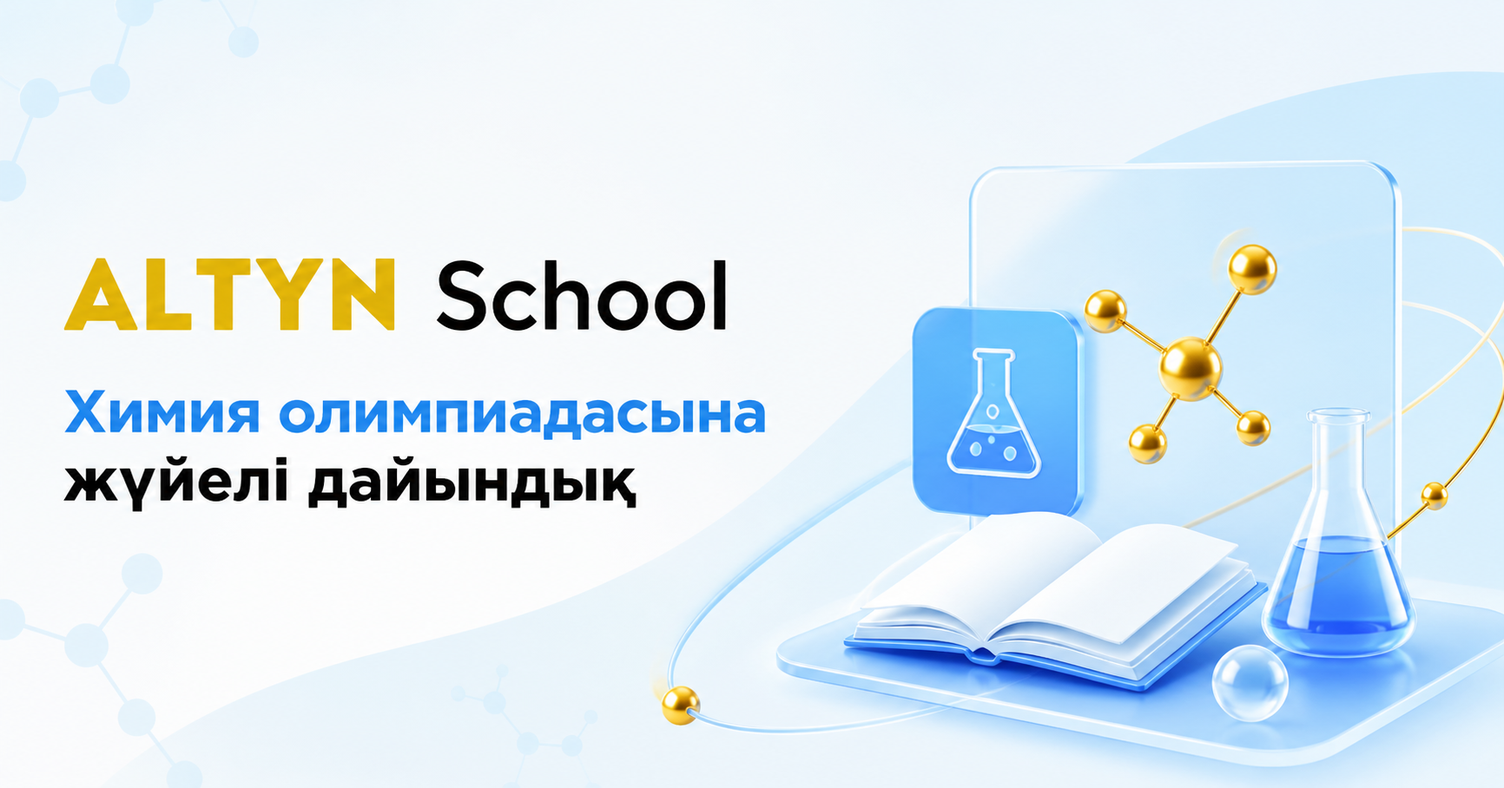
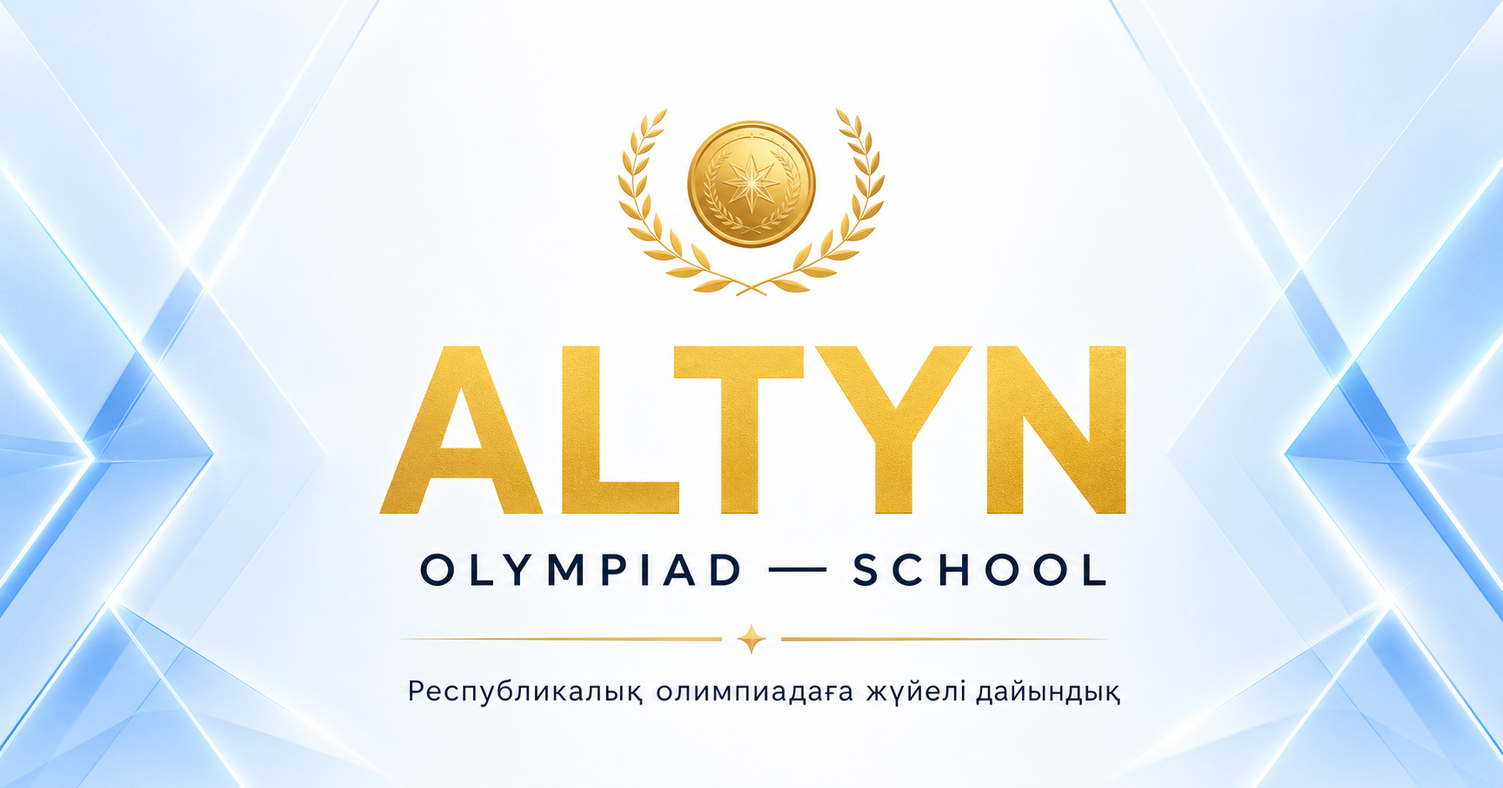
Update ALTYN as an olympiad school brand

diff --git a/app/components/LMSPreview.tsx b/app/components/LMSPreview.tsx
@@ -2,4 +2,4 @@
 import { motion } from "framer-motion";
 import { BookOpenCheck, CheckCircle2, Clock3, FileQuestion, Play, Trophy } from "lucide-react";
 import { SectionHeading } from "./shared";
-export default function LMSPreview(){return <section id="platform" className="section-space bg-white"><div className="site-container"><SectionHeading eyebrow="ALTYN LMS" title="Бәрі бір" accent="платформада" description="Теория, практика, олимпиадалық сынақ және ментордың талдауы бір терезеде."/><div className="mb-8 flex flex-wrap justify-center gap-2">{["Теория","Олимпиадалық есептер","Сынақ","Рейтинг"].map((x,i)=><span key={x} className={`rounded-full border px-5 py-2 text-xs font-bold ${i===0?"border-blue-600 bg-blue-600 text-white":"border-blue-200 text-blue-600"}`}>{x}</span>)}</div><motion.div initial={{opacity:0,y:40}} whileInView={{opacity:1,y:0}} viewport={{once:true}} className="platform-stage"><div className="platform-screen"><div className="flex items-center justify-between border-b border-slate-100 px-6 py-4"><div><small className="text-[9px] font-black tracking-[.14em] text-blue-600">ALTYN OLYMPIAD LAB</small><h3 className="mt-1 font-extrabold text-slate-900">Бейорганикалық химия · Практика 4</h3></div><span className="rounded-lg bg-blue-50 px-3 py-2 text-[9px] font-bold text-blue-600">11-сынып</span></div><div className="grid min-h-[430px] lg:grid-cols-[220px_1fr_210px]"><aside className="hidden border-r border-slate-100 bg-slate-50 p-4 lg:block"><p className="text-[9px] font-black text-slate-400">МОДУЛЬДЕР</p>{["Атом құрылысы","Химиялық байланыс","Термодинамика","Ерітінділер","Органикалық химия"].map((x,i)=><div key={x} className={`mt-3 rounded-xl p-3 text-[10px] font-bold ${i===2?"bg-blue-600 text-white":"bg-white text-slate-500"}`}>{i<2?"✓":"0"+(i+1)} · {x}</div>)}</aside><main className="p-5 sm:p-8"><div className="rounded-2xl border border-blue-100 bg-blue-50/60 p-5"><small className="font-black text-blue-600">18-ЕСЕП</small><p className="mt-3 text-sm font-bold leading-6 text-slate-800">Белгісіз металдың оксидіндегі оттектің массалық үлесін анықтап, реакция теңдеуін құрастыр.</p></div><div className="relative mt-5 grid min-h-[210px] place-items-center rounded-2xl border border-dashed border-slate-200 bg-slate-50"><div className="atom-visual"><span>Au</span></div><button className="absolute grid size-14 place-items-center rounded-full bg-blue-600 text-white shadow-xl"><Play size={20} fill="currentColor"/></button></div><div className="mt-4 grid grid-cols-4 gap-2">{["A · 23%","B · 31%","C · 38%","D · 46%"].map(x=><span key={x} className="rounded-xl border border-slate-200 bg-white p-3 text-center text-[10px] font-bold text-slate-600">{x}</span>)}</div></main><aside className="hidden border-l border-slate-100 p-4 lg:block"><p className="text-[9px] font-black text-slate-400">БҮГІНГІ ПРОГРЕСС</p><strong className="mt-2 block text-3xl text-slate-900">78%</strong><div className="my-4 h-2 rounded-full bg-slate-100"><div className="h-full w-[78%] rounded-full bg-blue-600"/></div>{[[CheckCircle2,"Теория аяқталды"],[FileQuestion,"12 есеп шешілді"],[Trophy,"Рейтинг: #7"]].map(([Icon,t])=><div key={String(t)} className="mt-3 flex items-center gap-2 rounded-xl bg-slate-50 p-3 text-[9px] font-bold text-slate-600"><Icon size={15} className="text-blue-600"/>{t}</div>)}</aside></div></div><div className="platform-base"/><div className="platform-float right-[-1rem] top-[22%]"><BookOpenCheck size={18}/> Бүкіл теория бір жерде</div><div className="platform-float right-[-1rem] top-[42%]"><Clock3 size={18}/> Кез келген уақытта дайындал</div></motion.div></div></section>}
+export default function LMSPreview(){return <section id="platform" className="section-space bg-white"><div className="site-container"><SectionHeading eyebrow="ALTYN LMS" title="Бәрі бір" accent="платформада" description="Теория, практика, олимпиадалық сынақ және ментордың талдауы бір терезеде."/><div className="mb-8 flex flex-wrap justify-center gap-2">{["Теория","Олимпиадалық есептер","Сынақ","Рейтинг"].map((x,i)=><span key={x} className={`rounded-full border px-5 py-2 text-xs font-bold ${i===0?"border-blue-600 bg-blue-600 text-white":"border-blue-200 text-blue-600"}`}>{x}</span>)}</div><motion.div initial={{opacity:0,y:40}} whileInView={{opacity:1,y:0}} viewport={{once:true}} className="platform-stage"><div className="platform-screen"><div className="flex items-center justify-between border-b border-slate-100 px-6 py-4"><div><small className="text-[9px] font-black tracking-[.14em] text-blue-600">ALTYN OLYMPIAD LAB</small><h3 className="mt-1 font-extrabold text-slate-900">Олимпиадалық дайындық · Практика 4</h3></div><span className="rounded-lg bg-blue-50 px-3 py-2 text-[9px] font-bold text-blue-600">11-сынып</span></div><div className="grid min-h-[430px] lg:grid-cols-[220px_1fr_210px]"><aside className="hidden border-r border-slate-100 bg-slate-50 p-4 lg:block"><p className="text-[9px] font-black text-slate-400">МОДУЛЬДЕР</p>{["Диагностика","Пәндік теория","Есептер стратегиясы","Олимпиадалық тур","Қателермен жұмыс"].map((x,i)=><div key={x} className={`mt-3 rounded-xl p-3 text-[10px] font-bold ${i===2?"bg-blue-600 text-white":"bg-white text-slate-500"}`}>{i<2?"✓":"0"+(i+1)} · {x}</div>)}</aside><main className="p-5 sm:p-8"><div className="rounded-2xl border border-blue-100 bg-blue-50/60 p-5"><small className="font-black text-blue-600">18-ЕСЕП</small><p className="mt-3 text-sm font-bold leading-6 text-slate-800">Берілген шартты талдап, шешу стратегиясын анықта. Әр қадамды негіздеп, толық жауап құрастыр.</p></div><div className="relative mt-5 grid min-h-[210px] place-items-center rounded-2xl border border-dashed border-slate-200 bg-slate-50"><div className="atom-visual"><span>01</span></div><button className="absolute grid size-14 place-items-center rounded-full bg-blue-600 text-white shadow-xl"><Play size={20} fill="currentColor"/></button></div><div className="mt-4 grid grid-cols-4 gap-2">{["A · 1-қадам","B · 2-қадам","C · 3-қадам","D · Жауап"].map(x=><span key={x} className="rounded-xl border border-slate-200 bg-white p-3 text-center text-[10px] font-bold text-slate-600">{x}</span>)}</div></main><aside className="hidden border-l border-slate-100 p-4 lg:block"><p className="text-[9px] font-black text-slate-400">БҮГІНГІ ПРОГРЕСС</p><strong className="mt-2 block text-3xl text-slate-900">78%</strong><div className="my-4 h-2 rounded-full bg-slate-100"><div className="h-full w-[78%] rounded-full bg-blue-600"/></div>{[[CheckCircle2,"Теория аяқталды"],[FileQuestion,"12 есеп шешілді"],[Trophy,"Рейтинг: #7"]].map(([Icon,t])=><div key={String(t)} className="mt-3 flex items-center gap-2 rounded-xl bg-slate-50 p-3 text-[9px] font-bold text-slate-600"><Icon size={15} className="text-blue-600"/>{t}</div>)}</aside></div></div><div className="platform-base"/><div className="platform-float right-[-1rem] top-[22%]"><BookOpenCheck size={18}/> Бүкіл теория бір жерде</div><div className="platform-float right-[-1rem] top-[42%]"><Clock3 size={18}/> Кез келген уақытта дайындал</div></motion.div></div></section>}

diff --git a/app/components/Hero.tsx b/app/components/Hero.tsx
@@ -1,5 +1,5 @@
 "use client";
 import { motion } from "framer-motion";
-import { ArrowRight, Award, FlaskConical, Play, Trophy } from "lucide-react";
+import { ArrowRight, Award, Medal, Play, Trophy } from "lucide-react";
 import { ease } from "./shared";
-export default function Hero(){return <section className="relative overflow-hidden bg-[#f3f5f8] pb-20 pt-28 sm:pb-24 sm:pt-32"><div className="absolute left-1/2 top-24 h-[450px] w-[900px] -translate-x-1/2 rounded-full bg-blue-200/25 blur-3xl"/><div className="site-container relative"><motion.div initial={{opacity:0,y:28}} animate={{opacity:1,y:0}} transition={{duration:.75,ease}} className="relative overflow-hidden rounded-[2.3rem] border border-white bg-white shadow-[0_30px_90px_rgba(15,23,42,.11)]"><img src="/altyn-students-v2.png" alt="ALTYN School оқушылары" className="h-[330px] w-full object-cover object-center sm:h-[430px] lg:h-[500px]"/><div className="pointer-events-none absolute inset-x-0 bottom-0 h-32 bg-gradient-to-t from-white via-white/60 to-transparent"/><motion.div animate={{y:[0,-8,0]}} transition={{duration:4,repeat:Infinity}} className="hero-chip left-[4%] top-[58%]"><span className="grid size-9 place-items-center rounded-xl bg-blue-50 text-blue-600"><Trophy size={18}/></span><div><b>#1 олимпиадалық мектеп</b><small>Химия бойынша</small></div></motion.div><motion.div animate={{y:[0,8,0]}} transition={{duration:4.4,repeat:Infinity}} className="hero-chip right-[4%] top-[53%]"><span className="grid size-9 place-items-center rounded-xl bg-amber-50 text-amber-500"><Award size={18}/></span><div><b>100+ жүлдегер</b><small>3 жыл ішінде</small></div></motion.div><div className="absolute left-1/2 top-5 hidden -translate-x-1/2 rounded-full border border-white/60 bg-white/85 px-5 py-2 text-[10px] font-black tracking-[.14em] text-blue-700 shadow-lg backdrop-blur sm:block">ALTYN · CHEMISTRY OLYMPIAD</div></motion.div><motion.div initial={{opacity:0,y:32}} animate={{opacity:1,y:0}} transition={{duration:.8,delay:.15,ease}} className="mx-auto mt-10 max-w-5xl text-center"><div className="mx-auto inline-flex items-center gap-2 rounded-full border border-blue-200 bg-blue-50 px-4 py-2 text-[10px] font-black tracking-[.12em] text-blue-700"><FlaskConical size={14}/> РЕСПУБЛИКАЛЫҚ ОЛИМПИАДАҒА ДАЙЫНДЫҚ</div><h1 className="mt-6 text-[2.7rem] font-extrabold leading-[1.02] tracking-[-.055em] text-slate-900 sm:text-6xl lg:text-[4.6rem]">4 айда олимпиадалық деңгейіңді <span className="gradient-text">+40%-ға арттыр</span></h1><p className="mx-auto mt-6 max-w-2xl text-base leading-7 text-slate-600 sm:text-lg">Химиядан мектепішілік кезеңнен Республикалық олимпиада тұғырына дейін апаратын жүйелі бағдарлама.</p><div className="mt-8 flex flex-col justify-center gap-3 sm:flex-row"><a href="#contact" className="primary-button">Тегін диагностика <ArrowRight size={18}/></a><a href="#results" className="secondary-button"><Play size={15} fill="currentColor"/> Оқушылар нәтижесі</a></div></motion.div></div></section>}
+export default function Hero(){return <section className="relative overflow-hidden bg-[#f3f5f8] pb-20 pt-28 sm:pb-24 sm:pt-32"><div className="absolute left-1/2 top-24 h-[450px] w-[900px] -translate-x-1/2 rounded-full bg-blue-200/25 blur-3xl"/><div className="site-container relative"><motion.div initial={{opacity:0,y:28}} animate={{opacity:1,y:0}} transition={{duration:.75,ease}} className="relative overflow-hidden rounded-[2.3rem] border border-white bg-white shadow-[0_30px_90px_rgba(15,23,42,.11)]"><img src="/altyn-students-v2.png" alt="ALTYN School олимпиада жүлдегерлері" className="h-[330px] w-full object-cover object-center sm:h-[430px] lg:h-[500px]"/><div className="pointer-events-none absolute inset-x-0 bottom-0 h-32 bg-gradient-to-t from-white via-white/60 to-transparent"/><motion.div animate={{y:[0,-8,0]}} transition={{duration:4,repeat:Infinity}} className="hero-chip left-[4%] top-[58%]"><span className="grid size-9 place-items-center rounded-xl bg-blue-50 text-blue-600"><Trophy size={18}/></span><div><b>#1 олимпиадалық мектеп</b><small>Пәндік олимпиадалар</small></div></motion.div><motion.div animate={{y:[0,8,0]}} transition={{duration:4.4,repeat:Infinity}} className="hero-chip right-[4%] top-[53%]"><span className="grid size-9 place-items-center rounded-xl bg-amber-50 text-amber-500"><Award size={18}/></span><div><b>100+ жүлдегер</b><small>3 жыл ішінде</small></div></motion.div><div className="absolute left-1/2 top-5 hidden -translate-x-1/2 rounded-full border border-white/60 bg-white/85 px-5 py-2 text-[10px] font-black tracking-[.14em] text-blue-700 shadow-lg backdrop-blur sm:block">ALTYN · OLYMPIAD SCHOOL</div></motion.div><motion.div initial={{opacity:0,y:32}} animate={{opacity:1,y:0}} transition={{duration:.8,delay:.15,ease}} className="mx-auto mt-10 max-w-5xl text-center"><div className="mx-auto inline-flex items-center gap-2 rounded-full border border-blue-200 bg-blue-50 px-4 py-2 text-[10px] font-black tracking-[.12em] text-blue-700"><Medal size={14}/> РЕСПУБЛИКАЛЫҚ ОЛИМПИАДАҒА ДАЙЫНДЫҚ</div><h1 className="mt-6 text-[2.7rem] font-extrabold leading-[1.02] tracking-[-.055em] text-slate-900 sm:text-6xl lg:text-[4.6rem]">4 айда олимпиадалық деңгейіңді <span className="gradient-text">+40%-ға арттыр</span></h1><p className="mx-auto mt-6 max-w-2xl text-base leading-7 text-slate-600 sm:text-lg">Мектепішілік кезеңнен Республикалық пән олимпиадасының тұғырына дейін апаратын жүйелі бағдарлама.</p><div className="mt-8 flex flex-col justify-center gap-3 sm:flex-row"><a href="#contact" className="primary-button">Тегін диагностика <ArrowRight size={18}/></a><a href="#results" className="secondary-button"><Play size={15} fill="currentColor"/> Оқушылар нәтижесі</a></div></motion.div></div></section>}

diff --git a/app/components/Pricing.tsx b/app/components/Pricing.tsx
@@ -10,5 +10,5 @@ const plans = [
 ];
 
 export default function Pricing() {
-  return <section id="pricing" className="section-space bg-gradient-to-b from-blue-50/60 to-slate-50"><div className="site-container"><SectionHeading eyebrow="ТАРИФТЕР" title="Республикалық кезеңге" accent="өзіңе сай форматпен" description="Екі тариф те олимпиадалық химияға бағытталған. Айырмашылығы — ментордың жеке қолдау деңгейінде." /><div className="mx-auto grid max-w-4xl gap-7 md:grid-cols-2">{plans.map((plan, i) => <FadeIn key={plan.name} delay={i * .1}><motion.article whileHover={{ y: -8 }} className={`relative h-full rounded-2xl bg-white p-8 transition-all duration-300 ${plan.featured ? "border-2 border-blue-500 shadow-[0_25px_70px_rgba(37,99,235,.20)]" : "border border-slate-200/80 shadow-sm hover:shadow-xl"}`}>{plan.featured && <div className="absolute -top-4 left-1/2 flex -translate-x-1/2 items-center gap-1.5 rounded-full bg-blue-600 px-4 py-2 text-[10px] font-black tracking-[.12em] text-white shadow-lg"><Flame size={13} /> ТОП ТАҢДАУ</div>}<div className="flex items-center justify-between"><span className={`grid size-12 place-items-center rounded-2xl ${plan.featured ? "bg-blue-600 text-white" : "bg-blue-50 text-blue-600"}`}><Sparkles size={21} /></span><span className="text-[9px] font-black tracking-[.14em] text-blue-600">{plan.label}</span></div><h3 className="mt-6 text-3xl font-extrabold text-slate-900">{plan.name}</h3><p className="mt-2 text-sm text-slate-500">{plan.desc}</p><div className="mt-7 border-b border-slate-100 pb-7"><strong className="text-4xl font-extrabold tracking-tight text-slate-900">{plan.price}</strong><span className="ml-2 text-sm font-semibold text-slate-400">KZT / ай</span></div><ul className="my-7 space-y-4">{plan.features.map(x => <li key={x} className="flex items-start gap-3 text-sm text-slate-600"><span className="mt-0.5 grid size-5 shrink-0 place-items-center rounded-full bg-blue-50 text-blue-600"><Check size={12} strokeWidth={3} /></span>{x}</li>)}</ul><a href="#contact" className={plan.featured ? "primary-button w-full" : "secondary-button w-full"}>{plan.name} таңдау <span>→</span></a></motion.article></FadeIn>)}</div><p className="mt-8 text-center text-xs text-slate-500">Қай тариф лайық екенін білмесең, тегін диагностикадан өт — біз көмектесеміз.</p></div></section>;
+  return <section id="pricing" className="section-space bg-gradient-to-b from-blue-50/60 to-slate-50"><div className="site-container"><SectionHeading eyebrow="ТАРИФТЕР" title="Республикалық кезеңге" accent="өзіңе сай форматпен" description="Екі тариф те пән олимпиадаларына жүйелі дайындыққа бағытталған. Айырмашылығы — ментордың жеке қолдау деңгейінде." /><div className="mx-auto grid max-w-4xl gap-7 md:grid-cols-2">{plans.map((plan, i) => <FadeIn key={plan.name} delay={i * .1}><motion.article whileHover={{ y: -8 }} className={`relative h-full rounded-2xl bg-white p-8 transition-all duration-300 ${plan.featured ? "border-2 border-blue-500 shadow-[0_25px_70px_rgba(37,99,235,.20)]" : "border border-slate-200/80 shadow-sm hover:shadow-xl"}`}>{plan.featured && <div className="absolute -top-4 left-1/2 flex -translate-x-1/2 items-center gap-1.5 rounded-full bg-blue-600 px-4 py-2 text-[10px] font-black tracking-[.12em] text-white shadow-lg"><Flame size={13} /> ТОП ТАҢДАУ</div>}<div className="flex items-center justify-between"><span className={`grid size-12 place-items-center rounded-2xl ${plan.featured ? "bg-blue-600 text-white" : "bg-blue-50 text-blue-600"}`}><Sparkles size={21} /></span><span className="text-[9px] font-black tracking-[.14em] text-blue-600">{plan.label}</span></div><h3 className="mt-6 text-3xl font-extrabold text-slate-900">{plan.name}</h3><p className="mt-2 text-sm text-slate-500">{plan.desc}</p><div className="mt-7 border-b border-slate-100 pb-7"><strong className="text-4xl font-extrabold tracking-tight text-slate-900">{plan.price}</strong><span className="ml-2 text-sm font-semibold text-slate-400">KZT / ай</span></div><ul className="my-7 space-y-4">{plan.features.map(x => <li key={x} className="flex items-start gap-3 text-sm text-slate-600"><span className="mt-0.5 grid size-5 shrink-0 place-items-center rounded-full bg-blue-50 text-blue-600"><Check size={12} strokeWidth={3} /></span>{x}</li>)}</ul><a href="#contact" className={plan.featured ? "primary-button w-full" : "secondary-button w-full"}>{plan.name} таңдау <span>→</span></a></motion.article></FadeIn>)}</div><p className="mt-8 text-center text-xs text-slate-500">Қай тариф лайық екенін білмесең, тегін диагностикадан өт — біз көмектесеміз.</p></div></section>;
 }

diff --git a/app/components/Footer.tsx b/app/components/Footer.tsx
@@ -5,5 +5,5 @@ import { ArrowUp, Camera, CirclePlay, Send } from "lucide-react";
 import { Logo } from "./shared";
 
 export default function Footer() {
-  return <motion.footer initial={{ opacity: 0 }} whileInView={{ opacity: 1 }} viewport={{ once: true }} className="bg-slate-950 pb-7 pt-16 text-white"><div className="site-container grid gap-10 border-b border-slate-800 pb-12 md:grid-cols-2 lg:grid-cols-[1.5fr_.7fr_.8fr_1fr]"><div><Logo light /><p className="mt-6 max-w-xs text-sm leading-6 text-slate-500">Химия олимпиадаларына жүйелі дайындық беретін Қазақстандағы заманауи онлайн мектеп.</p><div className="mt-6 flex gap-2">{[Camera, Send, CirclePlay].map((Icon, i) => <a key={i} href="#" aria-label="Әлеуметтік желі" className="grid size-9 place-items-center rounded-xl border border-slate-800 text-slate-400 transition hover:border-blue-500 hover:text-blue-400"><Icon size={16} /></a>)}</div></div><div><h3 className="text-xs font-black uppercase tracking-wider text-white">Навигация</h3>{[["Платформа", "#platform"], ["Артықшылықтар", "#features"], ["Нәтижелер", "#results"], ["Тарифтер", "#pricing"]].map(([x,h]) => <a key={x} href={h} className="mt-4 block text-xs text-slate-500 hover:text-blue-400">{x}</a>)}</div><div><h3 className="text-xs font-black uppercase tracking-wider text-white">Байланыс</h3><a href="#contact" className="mt-4 block text-xs text-slate-500 hover:text-blue-400">Кеңес алу</a><a href="#faq" className="mt-4 block text-xs text-slate-500 hover:text-blue-400">FAQ</a><p className="mt-4 text-xs text-slate-500">Қазақстан · Онлайн</p></div><div className="rounded-2xl border border-blue-400/20 bg-blue-400/10 p-5"><p className="text-sm font-bold">Бірінші қадамға дайынсың ба?</p><a href="#contact" className="mt-5 flex items-center justify-center rounded-xl bg-blue-600 px-4 py-3 text-xs font-black hover:bg-blue-500">Тегін бастау →</a></div></div><div className="site-container flex flex-col gap-4 pt-7 text-[10px] text-slate-600 sm:flex-row sm:items-center sm:justify-between"><span>© 2026 ALTYN School. Барлық құқық қорғалған.</span><a href="#top" className="inline-flex items-center gap-2 text-slate-400 hover:text-blue-400">Жоғарыға <ArrowUp size={13} /></a></div></motion.footer>;
+  return <motion.footer initial={{ opacity: 0 }} whileInView={{ opacity: 1 }} viewport={{ once: true }} className="bg-slate-950 pb-7 pt-16 text-white"><div className="site-container grid gap-10 border-b border-slate-800 pb-12 md:grid-cols-2 lg:grid-cols-[1.5fr_.7fr_.8fr_1fr]"><div><Logo light /><p className="mt-6 max-w-xs text-sm leading-6 text-slate-500">Пән олимпиадаларына жүйелі дайындық беретін Қазақстандағы заманауи онлайн мектеп.</p><div className="mt-6 flex gap-2">{[Camera, Send, CirclePlay].map((Icon, i) => <a key={i} href="#" aria-label="Әлеуметтік желі" className="grid size-9 place-items-center rounded-xl border border-slate-800 text-slate-400 transition hover:border-blue-500 hover:text-blue-400"><Icon size={16} /></a>)}</div></div><div><h3 className="text-xs font-black uppercase tracking-wider text-white">Навигация</h3>{[["Платформа", "#platform"], ["Артықшылықтар", "#features"], ["Нәтижелер", "#results"], ["Тарифтер", "#pricing"]].map(([x,h]) => <a key={x} href={h} className="mt-4 block text-xs text-slate-500 hover:text-blue-400">{x}</a>)}</div><div><h3 className="text-xs font-black uppercase tracking-wider text-white">Байланыс</h3><a href="#contact" className="mt-4 block text-xs text-slate-500 hover:text-blue-400">Кеңес алу</a><a href="#faq" className="mt-4 block text-xs text-slate-500 hover:text-blue-400">FAQ</a><p className="mt-4 text-xs text-slate-500">Қазақстан · Онлайн</p></div><div className="rounded-2xl border border-blue-400/20 bg-blue-400/10 p-5"><p className="text-sm font-bold">Бірінші қадамға дайынсың ба?</p><a href="#contact" className="mt-5 flex items-center justify-center rounded-xl bg-blue-600 px-4 py-3 text-xs font-black hover:bg-blue-500">Тегін бастау →</a></div></div><div className="site-container flex flex-col gap-4 pt-7 text-[10px] text-slate-600 sm:flex-row sm:items-center sm:justify-between"><span>© 2026 ALTYN School. Барлық құқық қорғалған.</span><a href="#top" className="inline-flex items-center gap-2 text-slate-400 hover:text-blue-400">Жоғарыға <ArrowUp size={13} /></a></div></motion.footer>;
 }

diff --git a/app/components/FAQ.tsx b/app/components/FAQ.tsx
@@ -3,5 +3,5 @@ import { AnimatePresence, motion } from "framer-motion";
 import { Plus } from "lucide-react";
 import { useState } from "react";
 import { SectionHeading } from "./shared";
-const questions=[["Курс кімдерге арналған?","8–11 сынып оқушыларына, химиядан облыстық және Республикалық олимпиада кезеңдеріне жүйелі дайындалғысы келетіндерге арналған."],["Сабақтар қалай өтеді?","Платформада видео сабақ, қысқа конспект, олимпиадалық есептер және апталық сынақ болады. Ментор оқу жоспарын бақылап, кері байланыс береді."],["Нөлден бастауға бола ма?","Иә. Диагностикадан кейін деңгей анықталып, базадан Республикалық олимпиада деңгейіне дейін жеке маршрут құрылады."],["Аптасына қанша уақыт керек?","Орташа 6–8 сағат жеткілікті. Жоспар оқушының мектебі мен басқа сабақтарына бейімделеді."],["Курсқа қалай қосыламын?","Өтінім қалдыр. Кеңесші байланысып, диагностикаға жазады және лайық тарифті таңдауға көмектеседі."]];
+const questions=[["Курс кімдерге арналған?","8–11 сынып оқушыларына, пән олимпиадаларының облыстық және Республикалық олимпиада кезеңдеріне жүйелі дайындалғысы келетіндерге арналған."],["Сабақтар қалай өтеді?","Платформада видео сабақ, қысқа конспект, олимпиадалық есептер және апталық сынақ болады. Ментор оқу жоспарын бақылап, кері байланыс береді."],["Нөлден бастауға бола ма?","Иә. Диагностикадан кейін деңгей анықталып, базадан Республикалық олимпиада деңгейіне дейін жеке маршрут құрылады."],["Аптасына қанша уақыт керек?","Орташа 6–8 сағат жеткілікті. Жоспар оқушының мектебі мен басқа сабақтарына бейімделеді."],["Курсқа қалай қосыламын?","Өтінім қалдыр. Кеңесші байланысып, диагностикаға жазады және лайық тарифті таңдауға көмектеседі."]];
 export default function FAQ(){const[open,setOpen]=useState(0);return <section id="faq" className="section-space bg-white"><div className="site-container grid gap-14 lg:grid-cols-[.75fr_1.25fr]"><SectionHeading centered={false} eyebrow="FAQ" title="Жиі қойылатын" accent="сұрақтар" description="Республикалық олимпиадаға дайындық бағдарламасы туралы негізгі жауаптар."/><motion.div initial={{opacity:0,x:35}} whileInView={{opacity:1,x:0}} viewport={{once:true}} className="space-y-3">{questions.map(([q,a],i)=><article key={q} className={`rounded-2xl border bg-white transition-all duration-300 ${open===i?"border-blue-200 shadow-lg shadow-blue-100/60":"border-slate-200/80 shadow-sm"}`}><button onClick={()=>setOpen(open===i?-1:i)} className="flex w-full items-center gap-4 p-5 text-left" aria-expanded={open===i}><span className="text-[10px] font-black text-blue-500">{String(i+1).padStart(2,"0")}</span><b className="flex-1 text-sm text-slate-900 sm:text-base">{q}</b><span className={`grid size-8 place-items-center rounded-full transition-all ${open===i?"rotate-45 bg-blue-600 text-white":"bg-blue-50 text-blue-600"}`}><Plus size={17}/></span></button><AnimatePresence initial={false}>{open===i&&<motion.div initial={{height:0,opacity:0}} animate={{height:"auto",opacity:1}} exit={{height:0,opacity:0}} className="overflow-hidden"><p className="px-14 pb-6 text-sm leading-6 text-slate-500">{a}</p></motion.div>}</AnimatePresence></article>)}</motion.div></div></section>}

diff --git a/app/components/Features.tsx b/app/components/Features.tsx
@@ -1,10 +1,10 @@
 "use client";
 
 import { motion } from "framer-motion";
-import { Activity, BrainCircuit, Clock3, FlaskConical, Medal, MessagesSquare } from "lucide-react";
+import { Activity, BrainCircuit, Clock3, ClipboardCheck, Medal, MessagesSquare } from "lucide-react";
 import { FadeIn, SectionHeading } from "./shared";
 
-const features = [[FlaskConical, "Олимпиадалық сынақ", "Апта сайын нақты олимпиада форматындағы сынақ пен толық талдау."], [Activity, "Жеке прогресс", "Әлсіз тақырыптарды көріп, өсу динамикасын нақты метрикамен бақыла."], [MessagesSquare, "Жеке ментор", "Жоспар, мотивация және күрделі есептер бойынша тұрақты қолдау."], [BrainCircuit, "Терең пәндік база", "Химияны формула емес, өзара байланысты жүйе ретінде түсіну."], [Medal, "Жеңімпаздар ортасы", "Мақсаты биік оқушылармен бірге дамып, жоғары стандарт қалыптастыру."], [Clock3, "24/7 қолжетімділік", "Сабақ пен материалдар кез келген уақытта барлық құрылғыда ашық."]];
+const features = [[ClipboardCheck, "Олимпиадалық сынақ", "Апта сайын нақты олимпиада форматындағы сынақ пен толық талдау."], [Activity, "Жеке прогресс", "Әлсіз тақырыптарды көріп, өсу динамикасын нақты метрикамен бақыла."], [MessagesSquare, "Жеке ментор", "Жоспар, мотивация және күрделі есептер бойынша тұрақты қолдау."], [BrainCircuit, "Терең пәндік база", "Пәнді жаттамай, идеялар мен заңдылықтарды өзара байланысты жүйе ретінде түсіну."], [Medal, "Жеңімпаздар ортасы", "Мақсаты биік оқушылармен бірге дамып, жоғары стандарт қалыптастыру."], [Clock3, "24/7 қолжетімділік", "Сабақ пен материалдар кез келген уақытта барлық құрылғыда ашық."]];
 
 export default function Features() {
   return <section id="features" className="section-space bg-gradient-to-b from-slate-50 to-blue-50/40"><div className="site-container"><SectionHeading eyebrow="НЕЛІКТЕН ALTYN?" title="Нәтижеге жеткізетін" accent="6 артықшылық" description="Білім, бақылау және қолдау бір жүйеге біріктірілгенде тұрақты нәтиже пайда болады." /><div className="grid gap-5 md:grid-cols-2 lg:grid-cols-3">{features.map(([Icon, title, text], i) => <FadeIn key={String(title)} delay={i * .06}><motion.article whileHover={{ y: -7 }} className="premium-card group relative h-full overflow-hidden p-7"><span className="absolute right-5 top-4 text-4xl font-black text-slate-100">0{i + 1}</span><span className="icon-box transition-all duration-300 group-hover:bg-blue-600 group-hover:text-white"><Icon size={22} /></span><h3 className="mt-6 text-lg font-extrabold text-slate-900">{title}</h3><p className="mt-3 text-sm leading-6 text-slate-500">{text}</p><div className="mt-7 flex items-center gap-2 text-xs font-bold text-blue-600 opacity-0 transition-opacity duration-300 group-hover:opacity-100">Толығырақ <span>→</span></div></motion.article></FadeIn>)}</div></div></section>;

diff --git a/app/components/shared.tsx b/app/components/shared.tsx
@@ -11,11 +11,12 @@ export function FadeIn({ children, className = "", delay = 0 }: { children: Reac
 
 export function Logo({ light = false }: { light?: boolean }) {
   return (
-    <a href="#top" className="group flex items-center gap-3" aria-label="ALTYN School басты бет">
-      <span className="grid size-10 place-items-center rounded-xl bg-gradient-to-br from-amber-300 to-amber-500 text-lg font-black text-white shadow-lg shadow-amber-200/60 transition-transform duration-300 group-hover:-rotate-3 group-hover:scale-105">A</span>
-      <span className="flex flex-col leading-none">
-        <b className={`text-lg font-black tracking-[0.16em] ${light ? "text-white" : "text-slate-900"}`}>ALTYN</b>
-        <small className={`mt-1 text-[8px] font-semibold tracking-[0.12em] ${light ? "text-slate-400" : "text-slate-500"}`}>CHEMISTRY OLYMPIAD</small>
+    <a href="#top" className="group inline-flex min-w-[9.5rem] flex-col leading-none" aria-label="ALTYN Olympiad School басты бет">
+      <b className="text-[1.65rem] font-black tracking-[0.09em] text-amber-500 transition-colors duration-300 group-hover:text-amber-400">ALTYN</b>
+      <span className={`mt-1 flex items-center gap-1.5 text-[7px] font-extrabold tracking-[0.16em] ${light ? "text-slate-300" : "text-slate-700"}`}>
+        <span>OLYMPIAD</span>
+        <span className={`h-px w-5 ${light ? "bg-slate-500" : "bg-slate-400"}`} aria-hidden="true" />
+        <span>SCHOOL</span>
       </span>
     </a>
   );

diff --git a/app/layout.tsx b/app/layout.tsx
@@ -10,13 +10,13 @@ export async function generateMetadata(): Promise<Metadata> {
 
   return {
     metadataBase: new URL(origin),
-    title: "ALTYN School — Химия олимпиадасына жүйелі дайындық",
-    description: "Химиядан Республикалық олимпиадаға жүйелі дайындық беретін заманауи онлайн мектеп.",
-    icons: { icon: "/altyn-logo.jpg", shortcut: "/altyn-logo.jpg" },
+    title: "ALTYN School — Олимпиадаға жүйелі дайындық",
+    description: "Республикалық пән олимпиадаларына жүйелі дайындық беретін заманауи онлайн мектеп.",
+    icons: { icon: "/favicon.svg", shortcut: "/favicon.svg" },
     openGraph: {
       title: "ALTYN School",
-      description: "Химия олимпиадасына жүйелі дайындық",
-      images: [{ url: `${origin}/og.png`, width: 1732, height: 908, alt: "ALTYN School" }],
+      description: "Республикалық пән олимпиадаларына жүйелі дайындық",
+      images: [{ url: `${origin}/og.png`, width: 1731, height: 908, alt: "ALTYN Olympiad School" }],
       locale: "kk_KZ",
       type: "website",
     },
